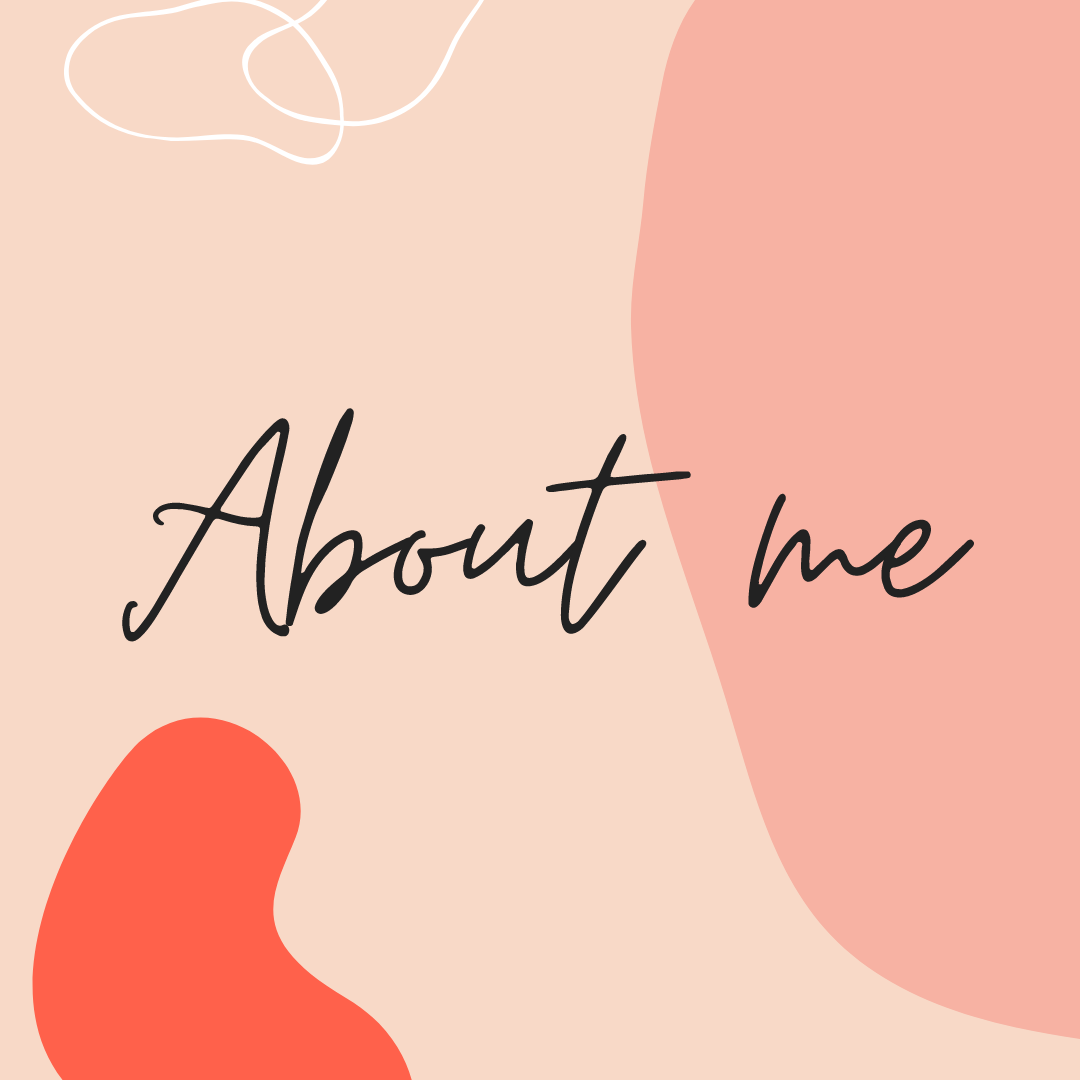
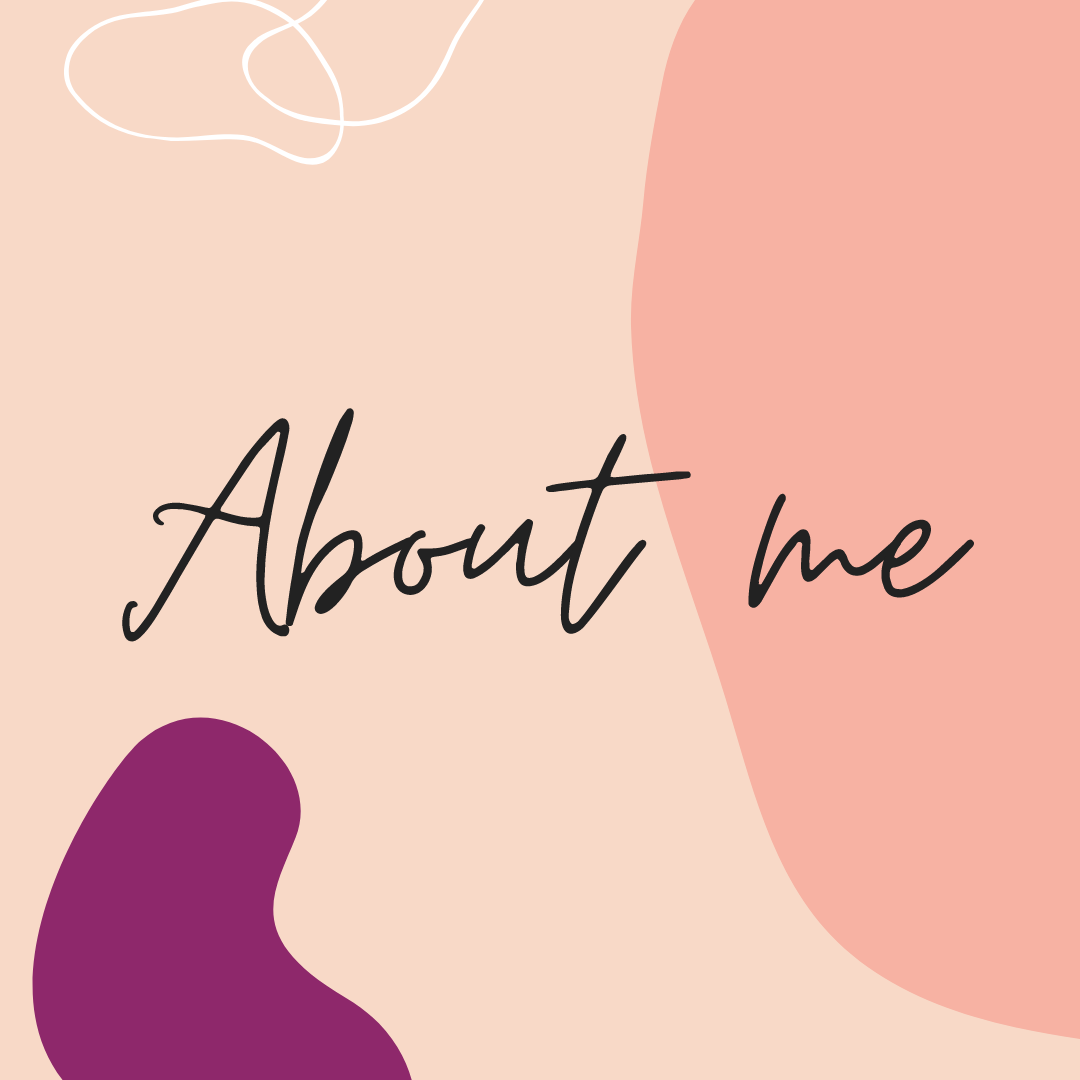
Changed images, layout colors and improved the written content

Changed region(s): [[0.0306, 0.6417, 0.3972, 1.0]]

diff --git a/mywork.html b/mywork.html
@@ -26,7 +26,7 @@
   </head>
 
   <body>
-    <div class="nav-container">
+    <div class="container">
       <nav class="d-flex justify-content-between">
         <a href="/" title="Homepage">Monika Gawinska</a>
         <ul>
@@ -47,6 +47,7 @@
     </div>
     <h2>My work</h2>
     <h3>Take a look at my work portfolio!</h3>
+  </br></br></br></br>
     <div class="container">
       <div class="row">
         <div class="d-sm-inline-flex justify-content-evenly">
@@ -63,9 +64,10 @@
                 This is my first weather app I developed with SheCodes! 👩🏼💻
                 You can check the current local weather as well as the 3 hour forecast for the day.
                 <br />
-                <button href="/"
+                <a href="https://awesome-austin-b052b4.netlify.app"
                 class="btn btn-secondary" 
-                title="Monika's weather application in Vanilla html">Check your local weather</button>
+                title="Monika's weather application in Vanilla html"
+                target="_blank">Check your local weather</a>
               </p>
             </div>
           </div>
@@ -82,15 +84,37 @@
                 <br />
                 This is my second weather app in React, also developed with SheCodes! 😊
                 <br />
-                <button href="/"
+                <a href="https://hopeful-boyd-697cdf.netlify.app"
                 class="btn btn-secondary"
-                title="Monika's weather app in React">Go to MyWeather App React
-                </button>
+                title="Monika's weather app in React"
+                target="_blank">Go to MyWeather App React
+              </a>
               </p>
             </div>
           </div>
           <div class="col-sm-6">
             <img src="/images/WeatherReact.png" class="img-thumbnail" alt="Weather app React project preview " />
+          </div>
+        </div>
+        <div class="row">
+          <div class="d-sm-inline-flex justify-content-evenly">
+            <div class="col-sm-6">
+              <img src="/images/Dictionary.png" class="img-thumbnail" alt="Dictionary app project preview" />
+            </div>
+            <div class="col-sm-6">
+              <div class="about-paragraphs">
+                <p>
+                  <span class="title">
+                    <strong>MyDictionary App React</strong>
+                  </span>
+                  <br />
+                  Another project I am currently learning to build with SheCodes - coming soon!
+                  <br />
+                  <a href="/" class="btn btn-secondary"
+                    title="Monika's dictionary application in React">Not finished yet!</a>
+                </p>
+              </div>
+            </div>
           </div>
         </div>
       </div>

diff --git a/about.html b/about.html
@@ -27,7 +27,7 @@
     ></script>
   </head>
   <body>
-    <div class="nav-container">
+    <div class="container">
       <nav class="d-flex justify-content-between">
         <a href="/" title="Homepage">Monika Gawinska</a>
         <ul>
@@ -46,32 +46,33 @@
         </ul>
       </nav>
     </div>
-    <div class="container">
-      <div class="row d-sm-inline-flex justify-content-evenly">
+    <h2>About me</h2>
+    <div class="row">
+      <div class="d-sm-inline-flex justify-content-evenly">
         <div class="col-sm-6">
-          <h2>About me</h2>
-          <h3>Hello I am Monika Gawinska</h3>
-          <p>
-            and I'm based in Poland 🇵🇱 I work in Warsaw and live in the
-            countryside, in walking distance to one of our beautiful national
-            parks 🌳🌲🐿🦉 I'm interested in many things and enjoy learning and
-            trying new challenges - that's why I took a shot with coding 🙂 Hope
-            you like this webpage I created (while learning with
+          <div class="content-container">
+            <h3>Hello, I am Monika Gawinska</h3>
+            <p>
+              and I'm based in Poland 🇵🇱 I work in Warsaw and live in the
+              countryside, in walking distance to one of our beautiful national
+              parks 🌳🌲🐿🦉 I'm interested in many things and enjoy learning and
+              trying new challenges - that's why I took a shot with coding 🙂
+              Hope you like this webpage I created (while learning with
+              <a
+                href="https://www.shecodes.io"
+                title="She Codes Homepage"
+                target="_blank"
+                class="text-decoration-none"
+                >She Codes 👩🏼💻 </a
+              >)
+            </p>
             <a
-              href="https://www.shecodes.io"
-              title="She Codes Homepage"
-              target="_blank"
-              class="text-decoration-none"
-              >She Codes 👩🏼💻 </a
-            >)
-          </p>
-          <a
-            href="/mywork.html"
-            class="btn btn-secondary"
-            title="Monika's work portfolio"
-          >
-            See my projects
-          </a>
+              href="/mywork.html"
+              class="btn btn-secondary"
+              title="Monika's work portfolio"
+              >See my projects
+            </a>
+          </div>
         </div>
         <div class="col-sm-6">
           <img

diff --git a/styles/portfolio.css b/styles/portfolio.css
@@ -1,6 +1,7 @@
 :root {
   --primary-color: #f8d9c7;
   --secondary-color: #935421;
+  --branding-color: #8e286b;
   --button-color: #f5b2a3;
   --box-shadow: 0 5px 10px rgba(0, 0, 0, 0.3);
 }
@@ -11,7 +12,7 @@ body {
 }
 
 nav {
-  padding: 25px 0px;
+  padding: 18px 0px;
 }
 
 nav ul {
@@ -32,13 +33,13 @@ nav a {
 
 nav a:hover,
 nav li.active a {
-  color: var(--secondary-color);
+  color: var(--branding-color);
 }
 
 .hero {
   background-color: bisque;
   text-align: center;
-  padding: 120px 20px;
+  padding: 100px 20px;
 }
 
 .hero h3 {
@@ -83,9 +84,13 @@ nav li.active a {
   margin: 0 auto;
 }
 
-.btn {
-  background: var(--button-color);
+.about-paragraphs a {
+  background: var(--branding-color);
   margin-top: 15px;
+}
+
+.about-paragraphs a:hover {
+  background: var(--button-color);
 }
 
 .img-thumbnail {
@@ -106,26 +111,30 @@ footer h4 {
 
 footer .contact-links a {
   margin: 0 20px;
-  color: var(--secondary-color);
+  color: var(--branding-color);
   font-size: 30px;
 }
 
 footer .contact-links a:hover {
-  color: black;
+  color: var(--button-color);
 }
 footer p {
   font-size: 16px;
 }
 
 footer .github-link {
-  color: var(--secondary-color);
+  color: var(--branding-color);
 }
 
 footer .github-link:hover {
-  color: black;
+  color: var(--button-color);
 }
 @media (max-width: 900px) {
   h1 {
     font-size: 30px;
+  }
+
+  nav a {
+    font-size: 11px;
   }
 }

diff --git a/styles/about.css b/styles/about.css
@@ -1,40 +1,61 @@
 :root {
   --primary-color: #f8d9c7;
   --secondary-color: #935421;
+  --branding-color: #8e286b;
   --button-color: #f5b2a3;
 }
 
 body {
   font-family: "Averia Serif Libre", cursive;
 }
-.container {
+.content-container {
+  margin: 30px 30px;
   margin-top: 70px;
-  padding: 100px;
+  padding: 40px;
+  border-radius: 20px;
   color: var(--secondary-color);
+  background-color: bisque;
 }
 
-.img-fluid {
+img {
   display: flex;
   margin: 30px 0;
-  border-radius: 25px;
-  padding: 15px;
+  margin-top: 30px;
+  border-radius: 50px;
+  padding: 40px;
 }
 
 h2 {
   text-align: center;
-  margin-bottom: 20px;
+  font-size: 35px;
+  margin-top: 80px;
+  color: var(--secondary-color);
 }
 
 h3 {
   text-align: center;
+  font-size: 26px;
   margin-bottom: 20px;
 }
 
 p {
   text-align: justify;
+  font-size: 17px;
+  line-height: 1.5;
 }
 
+a {
+  color: var(--branding-color);
+}
+
+a:hover {
+  color: var(--secondary-color);
+}
 .btn {
-  background: var(--button-color);
+  background: var(--branding-color);
   margin-right: 70px;
+}
+
+.btn:hover {
+  background: var(--button-color);
 }

diff --git a/index.html b/index.html
@@ -49,7 +49,7 @@
     <div class="hero">
       <h3>Hello, I am</h3>
       <h1>Monika Gawinska 🙋🏼♀</h1>
-      <h4>a fron-tend developer in the making, based in Poland 🇵🇱</h4>
+      <h4>a front-end developer in the making, based in Poland 🇵🇱</h4>
       <p>Welcome to my first webpage!</p>
     </div>
     <div class="container">

diff --git a/styles/mywork.css b/styles/mywork.css
@@ -1,6 +1,7 @@
 :root {
   --primary-color: #f8d9c7;
   --secondary-color: #935421;
+  --branding-color: #8e286b;
   --button-color: #f5b2a3;
 }
 
@@ -12,7 +13,7 @@ h2 {
   text-align: center;
   font-size: 35px;
   color: var(--secondary-color);
-  margin-top: 60px;
+  margin-top: 80px;
   line-height: 2;
 }
 

diff --git a/styles/contact.css b/styles/contact.css
@@ -1,6 +1,7 @@
 :root {
   --primary-color: #f8d9c7;
   --secondary-color: #935421;
+  --branding-color: #8e286b;
   --button-color: #f5b2a3;
 }
 
@@ -24,4 +25,12 @@ h3 {
 }
 p {
   text-align: center;
+}
+
+a {
+  color: var(--branding-color);
+}
+
+a:hover {
+  color: var(--button-color);
 }

diff --git a/contact.html b/contact.html
@@ -28,7 +28,7 @@
   </head>
 
   <body>
-    <div class="nav-container">
+    <div class="container">
       <nav class="d-flex justify-content-between">
         <a href="/" title="Homepage">Monika Gawinska</a>
         <ul>
